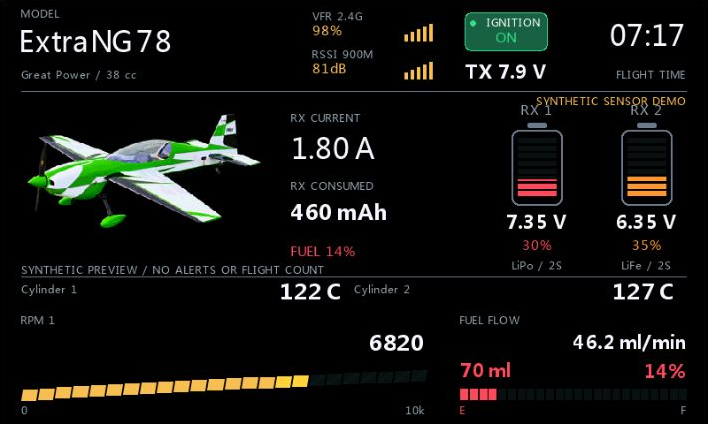
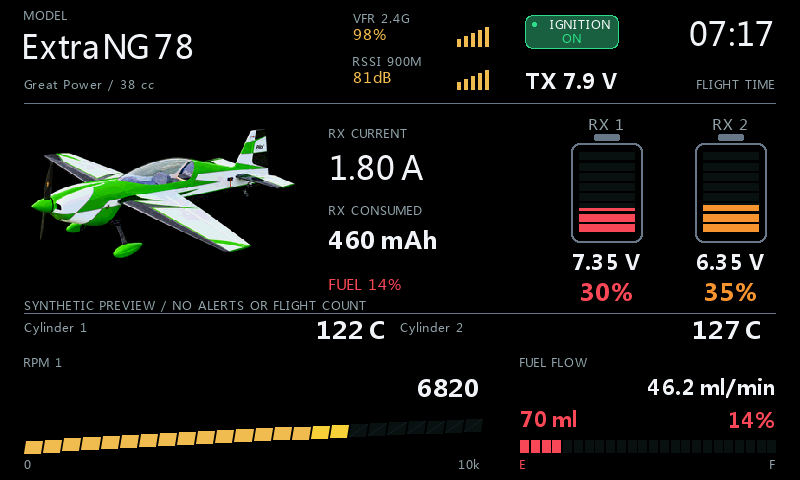
Release GasDeck 2026.10-v5

diff --git a/docs/Configuration.md b/docs/Configuration.md
@@ -41,8 +41,10 @@ Set **Chemistry** and **Cells** to match each actual battery.
 | Remaining from | Voltage estimate | Voltage estimate |
 | Voltage source | RxBatt1 — V | RxBatt2 — V |
 
-With this method, voltage, chemistry and cell count determine the remaining-charge
-estimate. It is marked **EST** and is approximate, especially with LiFe.
+This method estimates charge from voltage, chemistry and cell count; it is
+approximate, especially with LiFe. The corresponding RX battery menu shows
+**Remaining % is a voltage estimate.** The dashboard shows the percentage without
+an EST label.
 **Capacity**, **Consumed mAh** and **Percent source** are inactive for this method.
 The combined **RxCurrent** belongs in the next section.
 
@@ -187,7 +189,7 @@ that the fuel amount matches **Refill amount** when a valid flow reading is avai
 
 | Remaining from | Required value | How it is used |
 | --- | --- | --- |
-| Voltage estimate | Individual pack voltage in V; matching chemistry/cells | Approximate charge from voltage, marked EST |
+| Voltage estimate | Individual pack voltage in V; matching chemistry/cells | Approximate charge from voltage |
 | Consumed mAh | Individual pack consumption in mAh; matching Capacity | Remaining capacity from that pack's consumption |
 | Percent sensor | Individual remaining charge in % | Uses the supplied percentage |
 
@@ -200,7 +202,8 @@ GasDeck does not calculate mAh from its current fields or add individual counter
 
 An ETHOS calculated **Percent** sensor can provide a normalized **%** source.
 If it is derived from voltage, it is still a voltage estimate: verify its empty/full
-mapping for the battery and do not treat it as measured capacity. Editing a raw
+mapping for the battery and do not treat it as measured capacity. GasDeck cannot
+identify how a supplied % sensor was calculated. Editing a raw
 voltage source's **Range** alone does not turn its value in V into a valid % reading.
 See [ETHOS Percent sensors](https://ethos-doc.frsky-rc.com/model-setup/telemetry/#percent-sensor).
 

diff --git a/docs/Konfigurasjon-norsk.md b/docs/Konfigurasjon-norsk.md
@@ -41,8 +41,10 @@ Sett **Chemistry** og **Cells** riktig for hvert batteri.
 | Remaining from | Voltage estimate | Voltage estimate |
 | Voltage source | RxBatt1 — V | RxBatt2 — V |
 
-Med denne metoden bestemmes gjenværende kapasitet fra spenning, batteritype og
-celletall. Estimatet merkes **EST** og er omtrentlig, særlig for LiFe.
+Med denne metoden estimeres gjenværende kapasitet fra spenning, batteritype og
+celletall. Verdien er omtrentlig, særlig for LiFe. Menyen for det aktuelle RX-batteriet
+viser **Remaining % is a voltage estimate.** Hovedvisningen viser prosenten uten
+EST-merking.
 **Capacity**, **Consumed mAh** og **Percent source** er inaktive med denne metoden.
 Samlet **RxCurrent** velges i neste avsnitt.
 
@@ -187,7 +189,7 @@ kontroller at drivstoffmengden tilsvarer **Refill amount** når gyldig flow er t
 
 | Remaining from | Nødvendig måling | Bruk |
 | --- | --- | --- |
-| Voltage estimate | Pakkespenning i V; riktig batteritype/celletall | Omtrentlig kapasitet fra spenning, merket EST |
+| Voltage estimate | Pakkespenning i V; riktig batteritype/celletall | Omtrentlig kapasitet fra spenning |
 | Consumed mAh | Individuelt brukt mAh; riktig Capacity | Gjenværende kapasitet fra pakkens forbruk |
 | Percent sensor | Individuell gjenværende kapasitet i % | Bruker oppgitt prosent |
 
@@ -200,7 +202,8 @@ GasDeck beregner ikke mAh fra strømfeltene eller summerer individuelle tellere.
 
 En kalkulert ETHOS **Percent**-sensor kan gi en normalisert **%**-kilde.
 Er den basert på spenning, er den fortsatt et spenningsestimat: kontroller mapping
-for tomt/fullt batteri og ikke behandle verdien som målt kapasitet. Endring av
+for tomt/fullt batteri og ikke behandle verdien som målt kapasitet. GasDeck kan ikke
+se hvordan en valgt %-sensor er beregnet. Endring av
 **Range** på en rå spenningssensor alene gjør ikke avlesningen i V til gyldig prosent.
 Se [ETHOS' Percent-sensorer](https://ethos-doc.frsky-rc.com/model-setup/telemetry/#percent-sensor).
 

diff --git a/README.md b/README.md
@@ -2,9 +2,9 @@
 
 A full-screen receiver-power, gasoline-engine and fuel dashboard for FrSky ETHOS 1.6.6 and 26.1.2.
 
-**GasDeck 2026.10-v4: latest release. Physical radio testing passed.**
+**GasDeck 2026.10-v5: latest release. Physical radio testing passed.**
 
-[Download GasDeck-2026.10-v4.zip](https://github.com/bliatun-code/GasDeck/releases/download/gasdeck-2026.10-v4/GasDeck-2026.10-v4.zip) | [Release notes](https://github.com/bliatun-code/GasDeck/releases/tag/gasdeck-2026.10-v4)
+[Download GasDeck-2026.10-v5.zip](https://github.com/bliatun-code/GasDeck/releases/download/gasdeck-2026.10-v5/GasDeck-2026.10-v5.zip) | [Release notes](https://github.com/bliatun-code/GasDeck/releases/tag/gasdeck-2026.10-v5)
 
 ![GasDeck: RPM, temperatures, dual RX batteries and fuel](docs/images/gasdeck-single-engine.png)
 
@@ -38,7 +38,7 @@ The screenshots use illustrative values and example layouts.
 
 ## Install GasDeck
 
-1. Download [GasDeck-2026.10-v4.zip](https://github.com/bliatun-code/GasDeck/releases/download/gasdeck-2026.10-v4/GasDeck-2026.10-v4.zip) from the release assets, not GitHub's automatic source archive.
+1. Download [GasDeck-2026.10-v5.zip](https://github.com/bliatun-code/GasDeck/releases/download/gasdeck-2026.10-v5/GasDeck-2026.10-v5.zip) from the release assets, not GitHub's automatic source archive.
 2. Extract `scripts/GasDeck` onto the radio SD card; the final path is `scripts/GasDeck/main.lua`.
 3. Remove any existing `scripts/GasDeck/main.luac`, restart ETHOS and select **GasDeck** in a full-screen widget area.
 4. Follow the [TD SR18 / AES II walkthrough](docs/Configuration.md) or [norsk veiledning](docs/Konfigurasjon-norsk.md) to select sources in menu order. Turn **Synthetic preview** off for live operation.

diff --git a/docs/GasDeck.md b/docs/GasDeck.md
@@ -4,7 +4,7 @@
 
 ## Installation
 
-1. Download [GasDeck-2026.10-v4.zip](https://github.com/bliatun-code/GasDeck/releases/download/gasdeck-2026.10-v4/GasDeck-2026.10-v4.zip) from the release assets.
+1. Download [GasDeck-2026.10-v5.zip](https://github.com/bliatun-code/GasDeck/releases/download/gasdeck-2026.10-v5/GasDeck-2026.10-v5.zip) from the release assets.
 2. Extract `scripts/GasDeck` onto the radio SD card so the final path is `scripts/GasDeck/main.lua`.
 3. Remove any existing `scripts/GasDeck/main.luac`, then restart ETHOS.
 4. Select **GasDeck** in a full-screen widget area and configure your model's sources, capacities and fuel method.
@@ -53,8 +53,10 @@ for sensor discovery and calculated sources.
 
 ## Estimates and safety
 
-Prefer individual consumed mAh or measured percent. Voltage estimates are marked EST;
-LiFe's flat voltage curve makes the capacity estimate less reliable.
+Prefer individual consumed mAh or measured percent. With **Voltage estimate**, the
+corresponding RX battery menu shows **Remaining % is a voltage estimate.**
+The dashboard percentage has no EST label. LiFe's flat voltage curve makes the
+capacity estimate less reliable.
 Fuel estimates require correct baseline, calibration and continuous valid data.
 Missing integrated flow cannot be reconstructed. Unknown is not full.
 A command is not ignition-power feedback. GasDeck never controls ignition, throttle,

diff --git a/CHANGELOG.md b/CHANGELOG.md
@@ -1,5 +1,10 @@
 # GasDeck change log
 
+## 2026.10-v5 - release, 2026-10-09
+
+- Balance the ignition and flight-time header; enlarge RX battery icons and percentages, with chemistry and cell count shown in configuration.
+- Keep battery percentages clear; explain voltage estimates in the selected RX battery's configuration.
+
 ## 2026.10-v4 - release, 2026-10-09
 
 - Renew ETHOS focus while the selected widget is visible, retaining the radio's standard menus.
